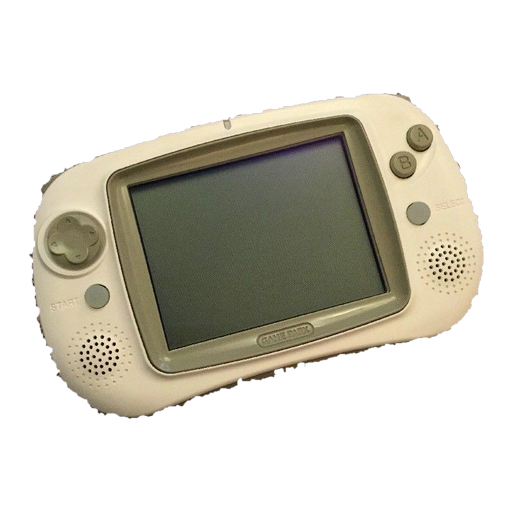
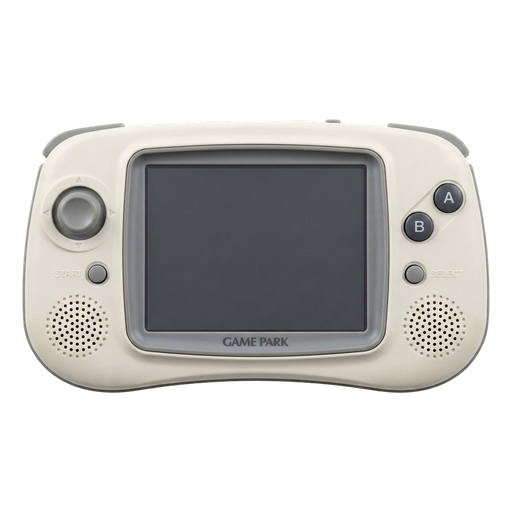
fix: replace gp32, gamemaster, picno, and vsmile console art with clean transparent PNGs

diff --git a/CHANGELOG.md b/CHANGELOG.md
@@ -49,6 +49,8 @@ All notable changes to **Controllarr** are documented in this file.
   - Removed TV media server and TV player connection providers (`SynologyIndexer`, `Notifiarr`, `MediaServerUpdateQueue`) and added database migration `248_remove_tv_media_notifications` to clean up legacy TV connection records (`SynologyIndexer`, `Notifiarr`, `PlexClient`, `PlexServer`, `Xbmc`, `MediaBrowser`, `Emby`, `Trakt`, `Subgen`).
 
 ### Fixed
+- **Clean Studio Console Hardware Art Replacement (`gp32.png`, `gamemaster.png`, `picno.png`, `vsmile.png`)**:
+  - Replaced the console hardware transparent PNG assets for GamePark GP32, Hartung Game Master, Konami Picno, and VTech V.Smile with newly rendered, anti-aliased and color-decontaminated `512x512` RGBA PNGs to eliminate jagged edges and background halos.
 - **Prevent Synthetic `Platform <id>` & Unrecognized DAT Game Misclassification (`GameCatalogProxy`, `ImportPlatformSelectPlatform`)**:
   - Removed the catch-all `CreateFallbackPlatformEntry` synthesis for unrecognized catalog IDs in `GameCatalogProxy.GetSeriesInfo` and `SearchForNewSeries` (`tvdb:`/`igdb:` ID lookups) so unknown or stale deterministic IDs (e.g. `821058`) throw `SeriesNotFoundException` instead of fabricating `"Platform <id>"` + `"Platform <id> Launch Title"` entries, while preserving legacy integration fixture IDs.
   - Removed the `snes` fallback in `GameCatalogProxy.ConvertDatEntryToGameCatalogEntry` so DAT/SMDB entries for unsupported systems (such as `Jupiter Ace Games`) are ignored during search instead of being misassigned and cached under SNES.
